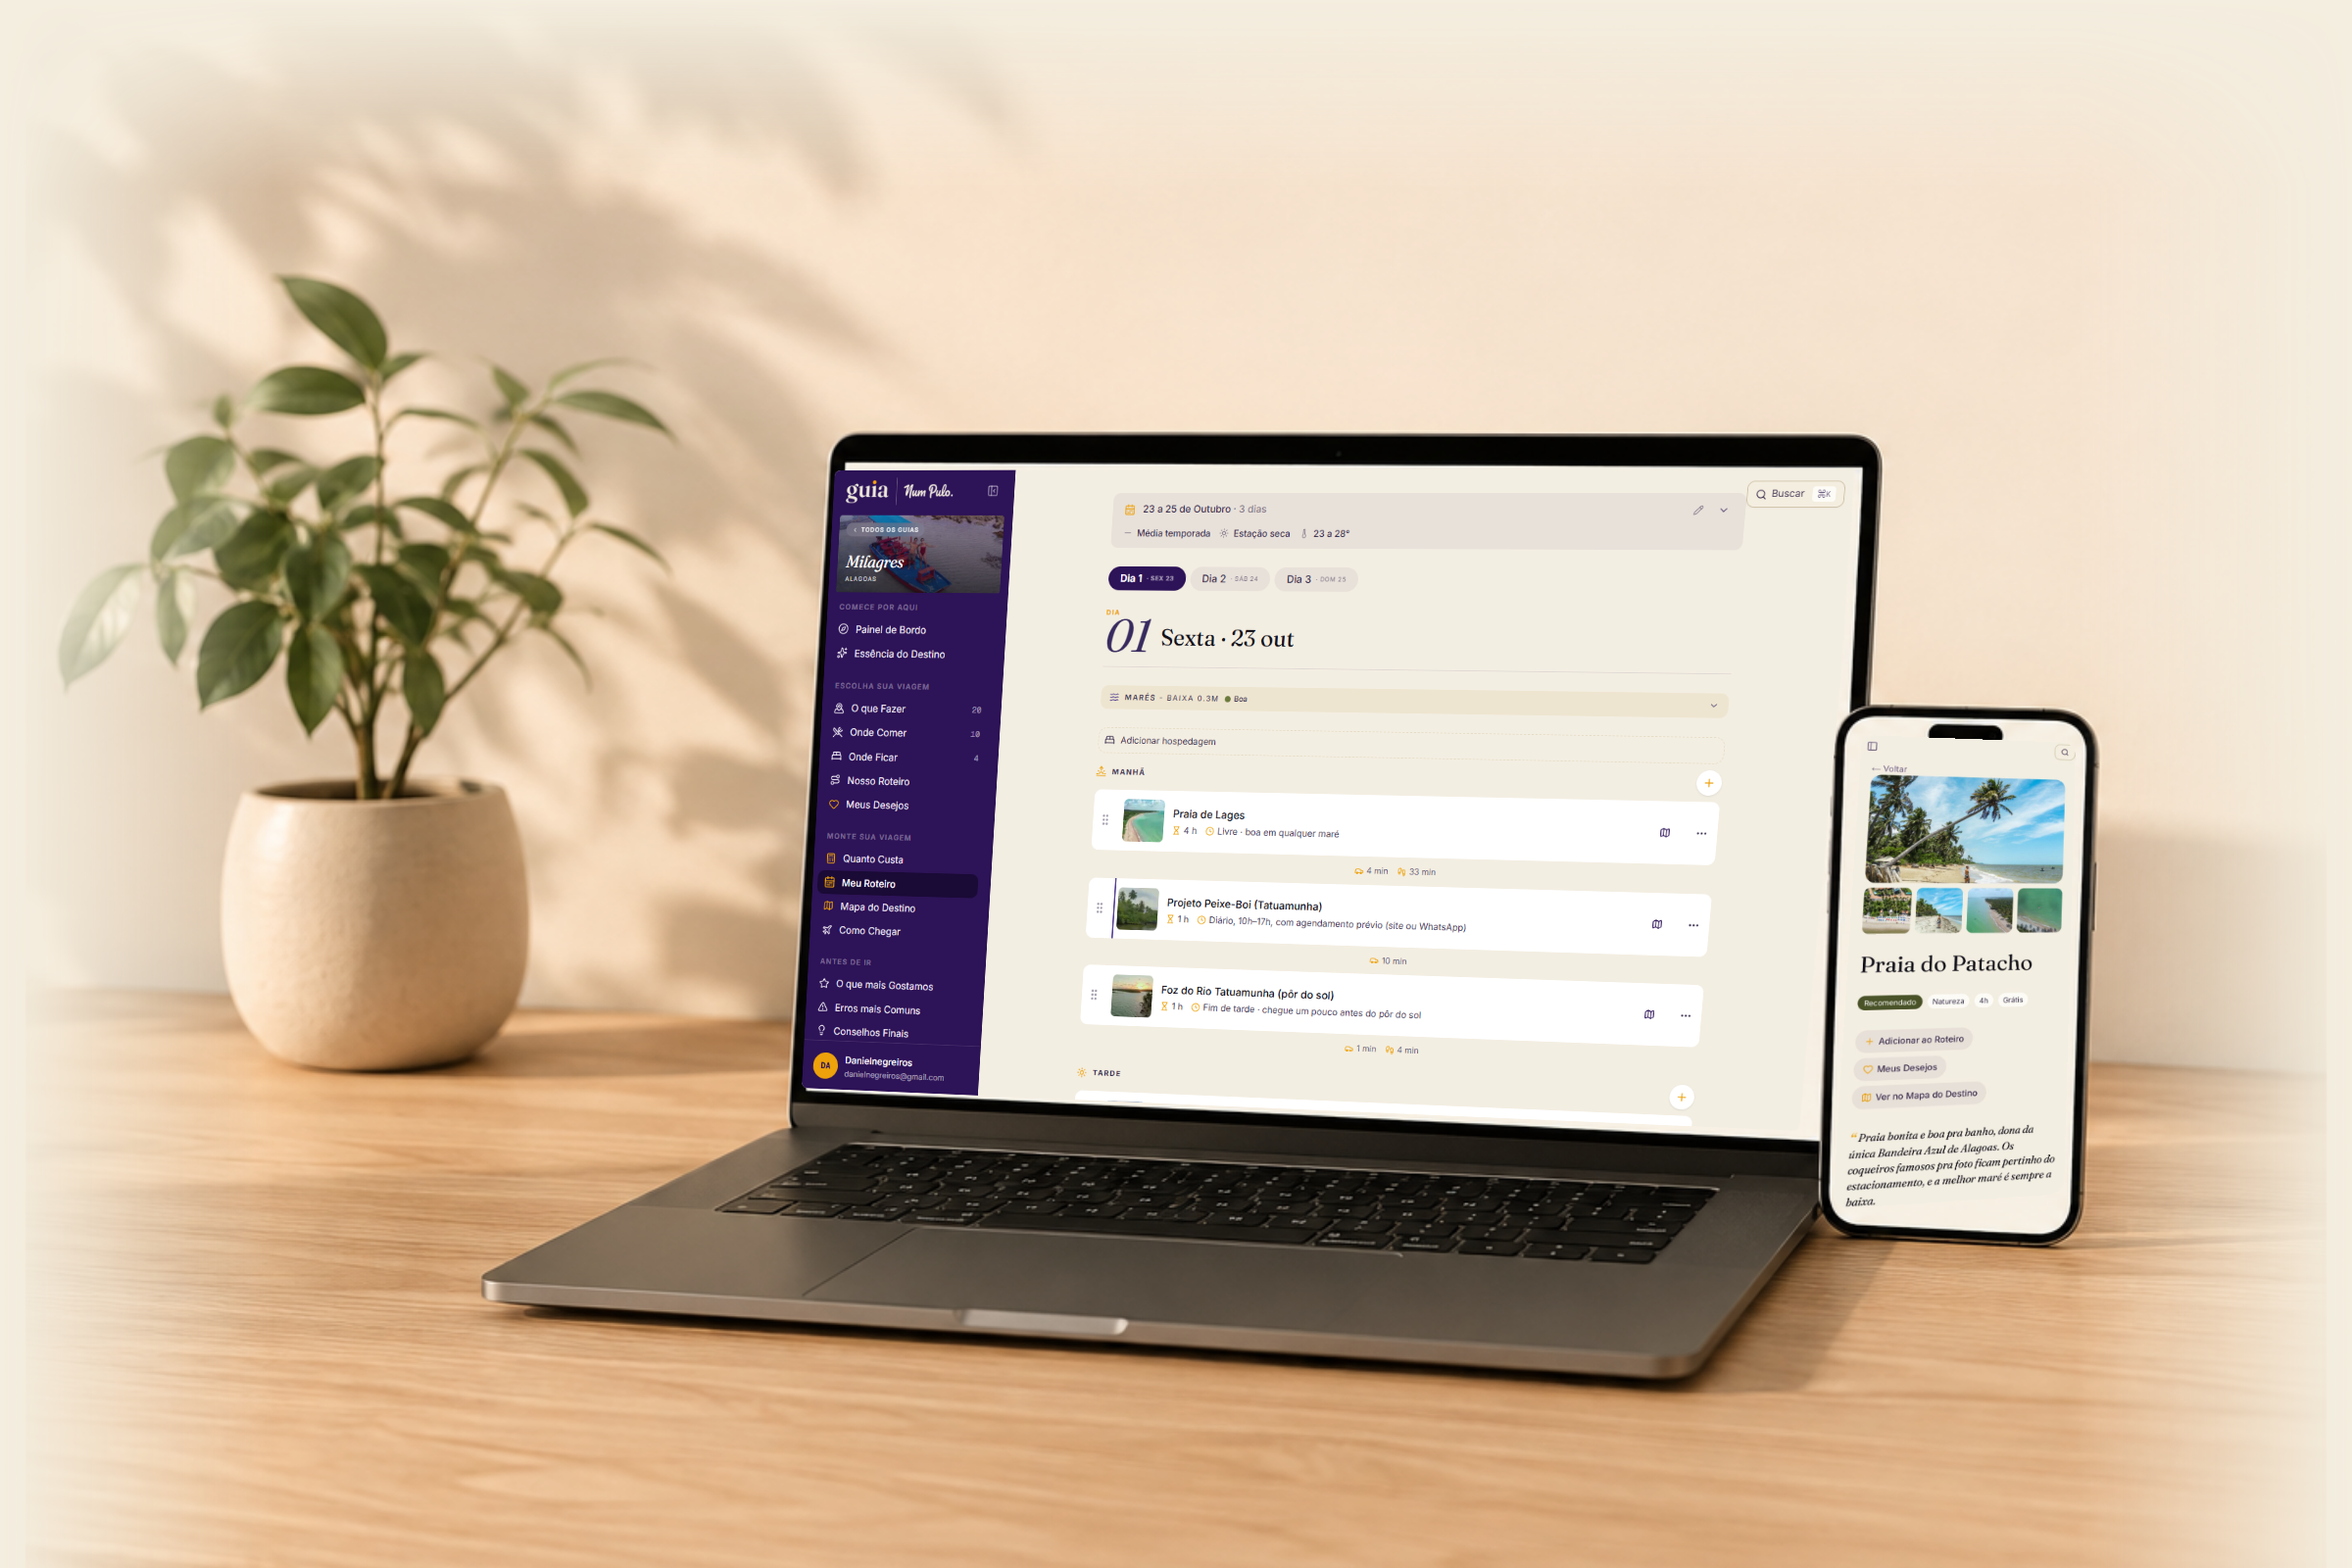
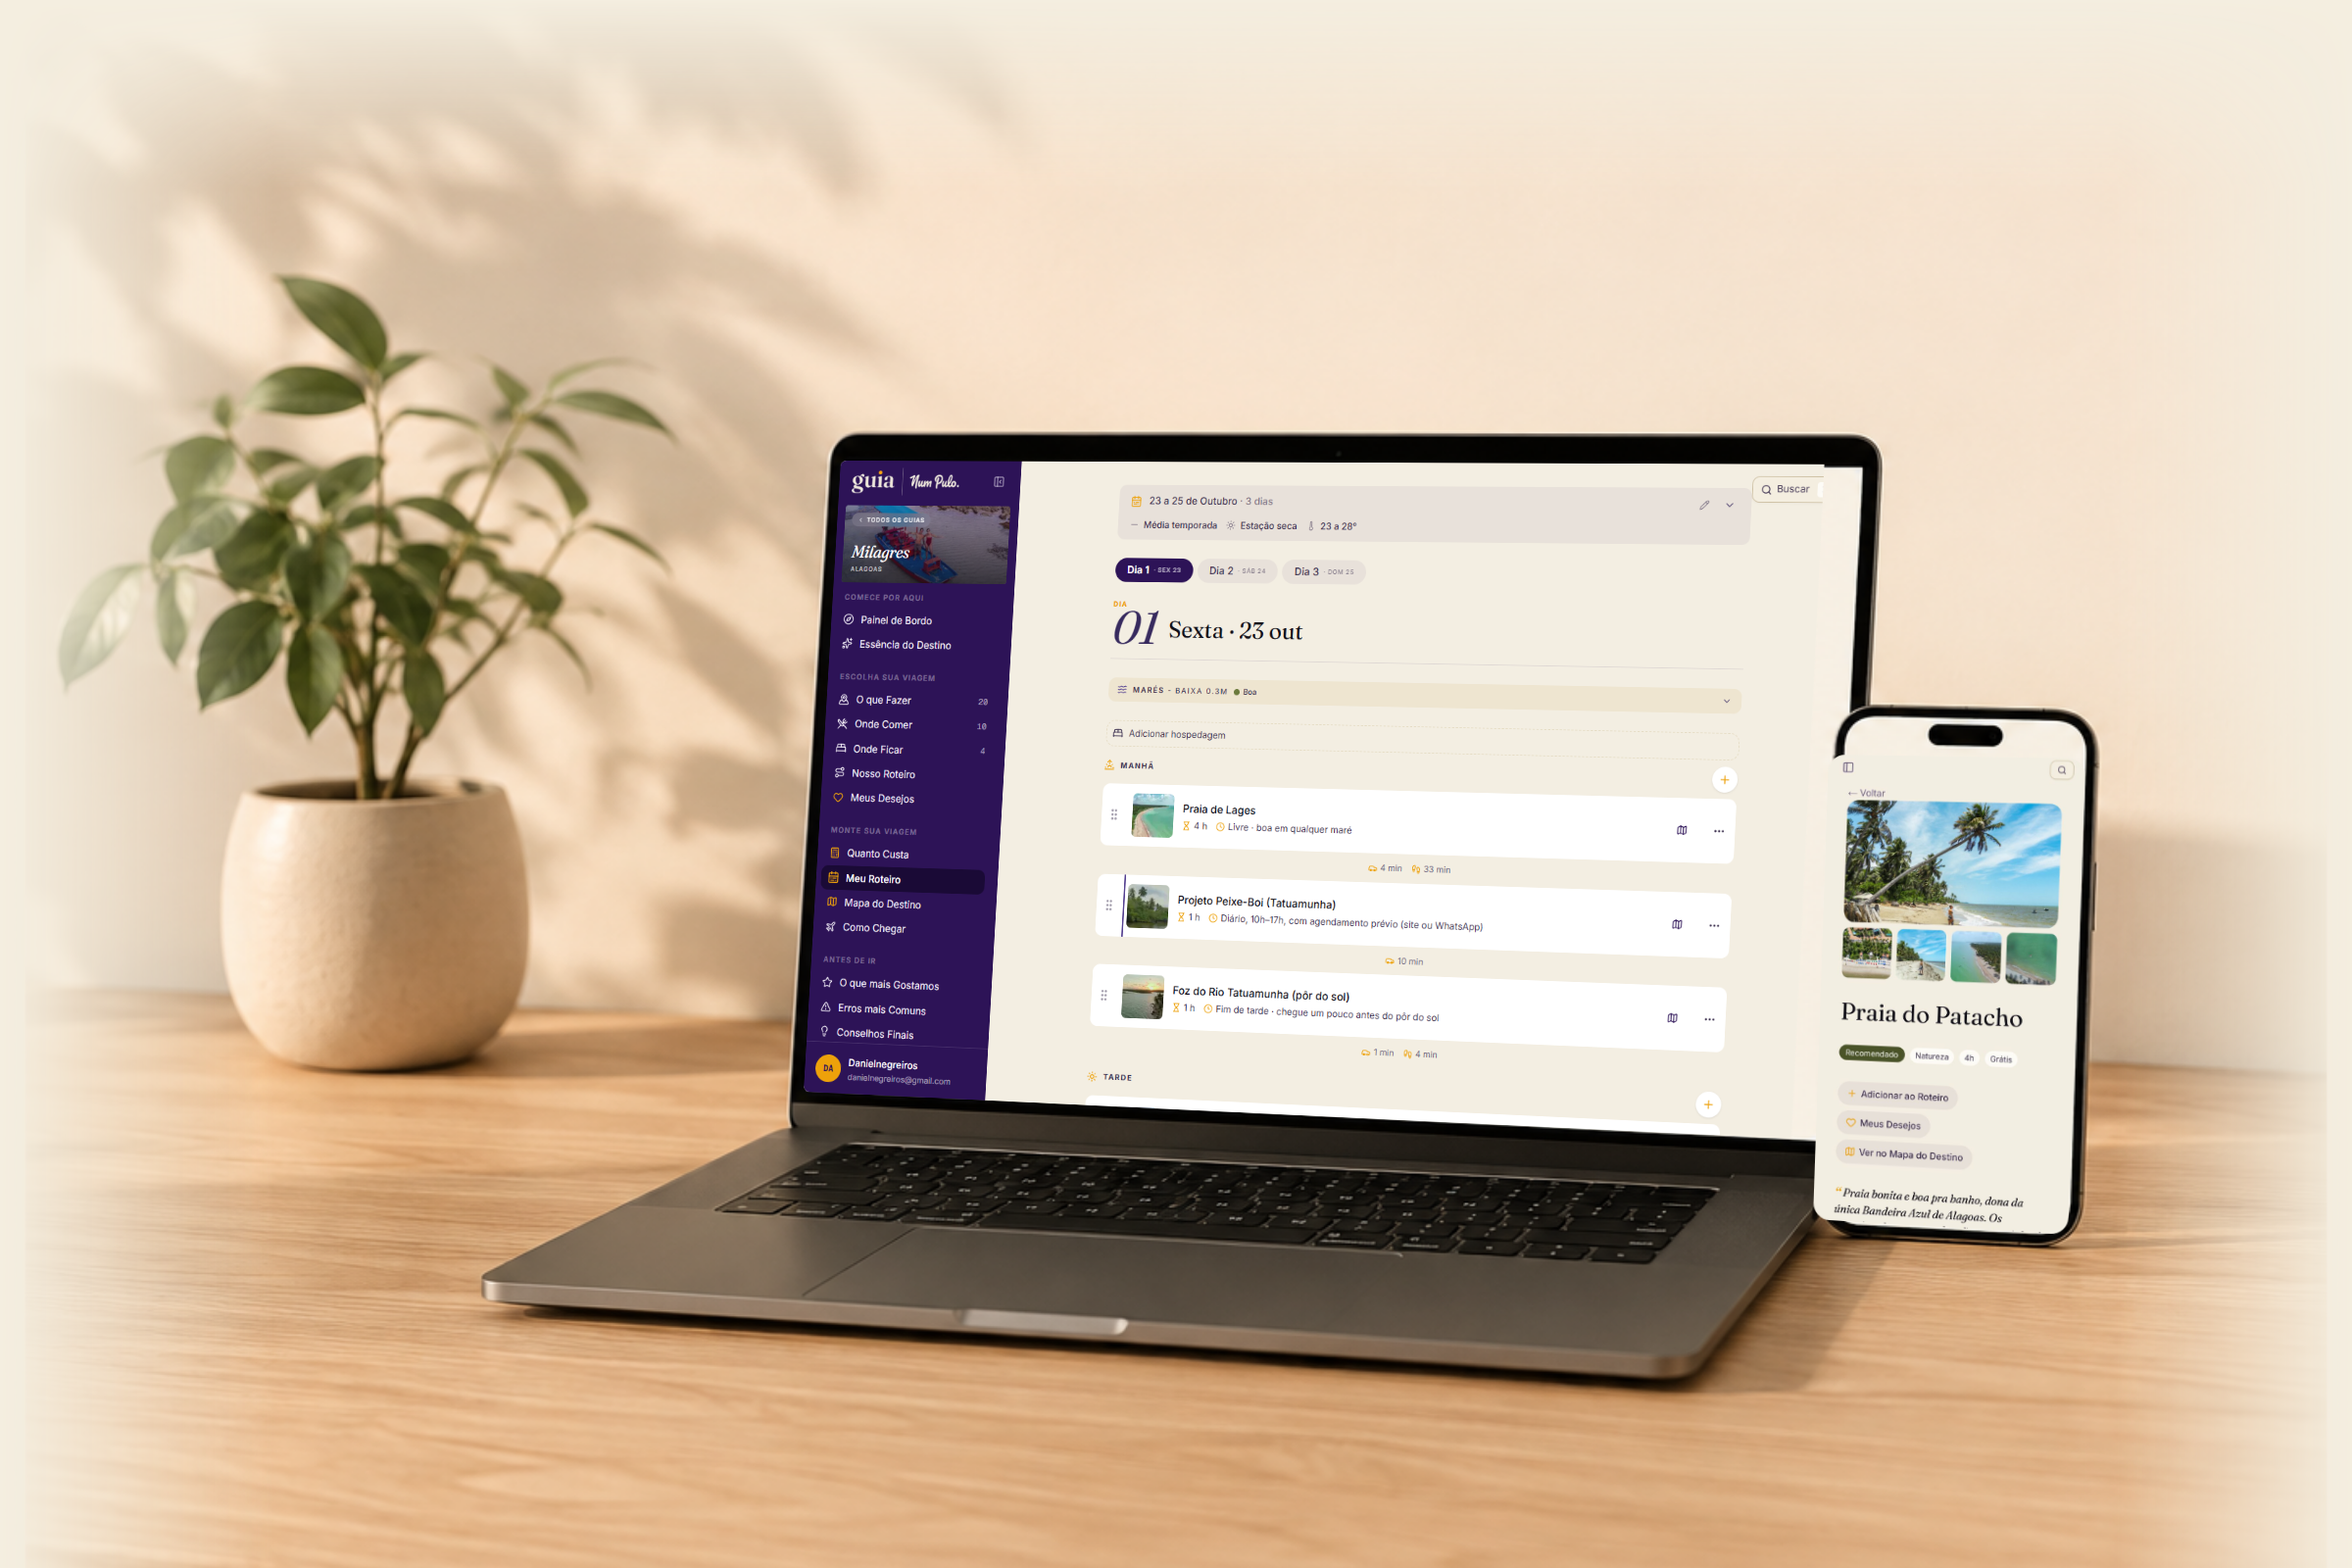
fix: telas encostam no bezel, ilha da camera livre, perspectiva do fone
Bordas das telas detectadas por varredura de pixels (fim da medicao a
olho): notebook 7px mais alto no topo e fundo inclinado +0.05; celular
tem bordas paralelas (quase frontal) - causa da distorcao no texto.

Changed region(s): [[0.3438, 0.2812, 0.875, 0.7812], [0.7188, 0.2812, 0.7812, 0.3438]]

diff --git a/biblioteca/pecas/2026/2026-08-07-cena-guia-landing/fonte.html b/biblioteca/pecas/2026/2026-08-07-cena-guia-landing/fonte.html
@@ -11,19 +11,19 @@
   img.base {
     position: absolute; left: -36px; top: -24px; width: 1272px; height: 848px;
     -webkit-mask-image:
-      linear-gradient(to right, transparent 36px, #000 176px, #000 1096px, transparent 1236px),
+      linear-gradient(to right, transparent 36px, #000 176px, #000 1116px, transparent 1236px),
       linear-gradient(to bottom, transparent 24px, #000 120px, #000 848px);
     -webkit-mask-composite: source-in;
     mask-image:
-      linear-gradient(to right, transparent 36px, #000 176px, #000 1096px, transparent 1236px),
+      linear-gradient(to right, transparent 36px, #000 176px, #000 1116px, transparent 1236px),
       linear-gradient(to bottom, transparent 24px, #000 120px, #000 848px);
     mask-composite: intersect;
   }
   .tela { position: absolute; left: 0; top: 0; overflow: hidden; background: #F6F2EA; }
   #tela-nb { width: 1363px; height: 832px; border-radius: 8px; }
   #tela-nb img { display: block; width: 1363px; }
-  #tela-ph { width: 137px; height: 290px; border-radius: 9px; }
-  #tela-ph img { display: block; width: 148px; margin: -30px 0 0 -5px; }
+  #tela-ph { width: 137px; height: 247px; border-radius: 9px; }
+  #tela-ph img { display: block; width: 137px; margin: -28px 0 0 0; }
 </style>
 </head>
 <body>
@@ -73,12 +73,13 @@
       return [v[0]/v[2], v[1]/v[2]];
     }
 
-    // Notebook: cantos do vidro medidos por grade 1:1 (TL, TR, BL, BR em 1200×800).
+    // Notebook: cantos por varredura de pixels da base (bordas do branco da tela),
+    // com 2px de transbordo para encostar no bezel. TL, TR, BL, BR em 1200×800.
     const nb = document.getElementById('tela-nb');
-    const tNb = homografia(1363, 832, [426,240, 949,239, 409,555, 918,577]);
+    const tNb = homografia(1363, 832, [429,235, 951,237, 410,557, 934,582]);
     // Oclusão do celular: conteúdo do notebook clipado à esquerda da linha
-    // (939,354)-(917,702) do quadro — o celular da base fica por cima.
-    const A = paraLocal(tNb, 939, 354), B = paraLocal(tNb, 917, 702);
+    // (925,358)-(908,706) do quadro — o celular da base fica por cima.
+    const A = paraLocal(tNb, 925, 358), B = paraLocal(tNb, 908, 706);
     const dx = (B[0]-A[0]) / (B[1]-A[1]);
     const yTop = -20, yBot = 852;
     const xTop = A[0] + dx*(yTop-A[1]), xBot = A[0] + dx*(yBot-A[1]);
@@ -86,9 +87,10 @@
       + xBot + 'px ' + yBot + 'px, -20px ' + yBot + 'px)';
     aplicar(nb, tNb);
 
-    // Celular: idem, por cima de tudo.
+    // Celular: bordas paralelas (fone quase frontal, varredura de pixels);
+    // conteúdo começa abaixo da ilha da câmera (base creme aparece em volta dela).
     aplicar(document.getElementById('tela-ph'),
-      homografia(137, 290, [950,375, 1059,379, 935,617, 1053,609]));
+      homografia(137, 247, [933,385, 1064,387, 925,622, 1055,630]));
   </script>
 </body>
 </html>
